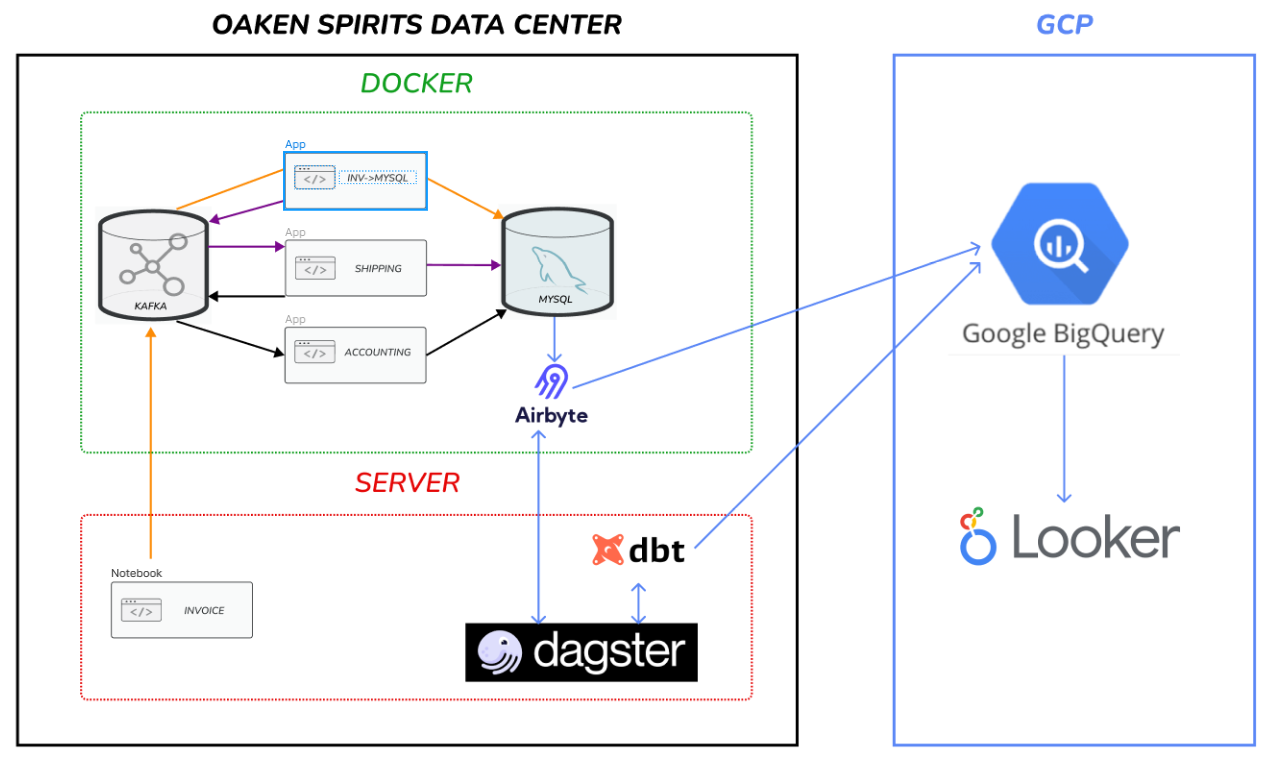
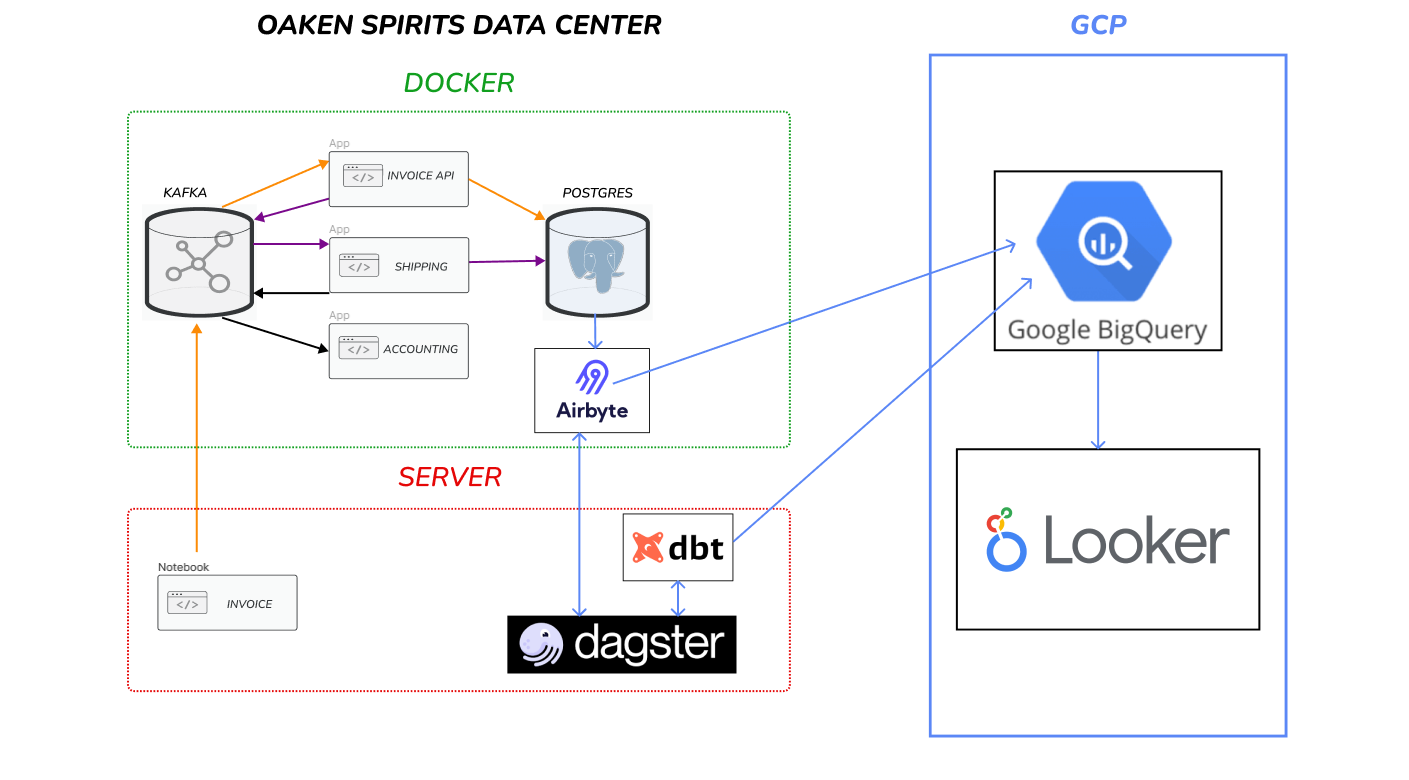
readme

Changed region(s): [[0.0, 0.0, 1.0, 0.9948], [0.0612, 0.9043, 0.3059, 0.9345]]

diff --git a/README.md b/README.md
@@ -1,6 +1,6 @@
 ![Oaken Spirirts Logo](images/oaken-spirits-logo.png)
 
-![Python](https://img.shields.io/badge/Python-gluegreen)![Kafka](https://img.shields.io/badge/kafka-black)![MySQL](https://img.shields.io/badge/MySQL-lightblue)![Ubuntu](https://img.shields.io/badge/Ubuntu-lightgreen)![Docker](https://img.shields.io/badge/Docker-darkblue)![Dagster](https://img.shields.io/badge/Dagster-violet)![Airbyte](https://img.shields.io/badge/Airbyte-purple)![DBT](https://img.shields.io/badge/DBT-orange)![GCP](https://img.shields.io/badge/GCP-blue)![BigQuery](https://img.shields.io/badge/BigQuery-skyblue)![Looker](https://img.shields.io/badge/Looker_Studio-darkred)
+![Python](https://img.shields.io/badge/Python-gluegreen)![Kafka](https://img.shields.io/badge/kafka-black)![Postgres](https://img.shields.io/badge/Postgres-lightblue)![Ubuntu](https://img.shields.io/badge/Ubuntu-lightgreen)![Docker](https://img.shields.io/badge/Docker-darkblue)![Dagster](https://img.shields.io/badge/Dagster-violet)![Airbyte](https://img.shields.io/badge/Airbyte-purple)![DBT](https://img.shields.io/badge/DBT-orange)![GCP](https://img.shields.io/badge/GCP-blue)![BigQuery](https://img.shields.io/badge/BigQuery-skyblue)![Looker](https://img.shields.io/badge/Looker_Studio-darkred)
 
 ## Video Overview
 
